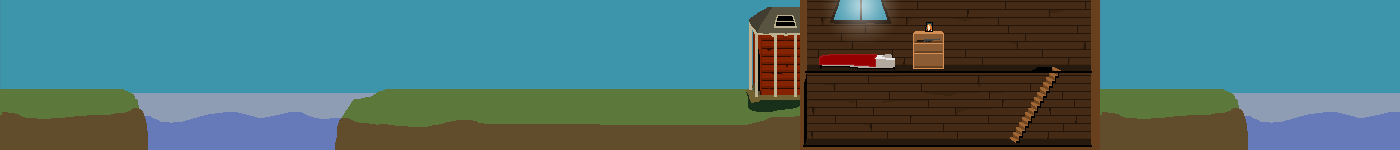
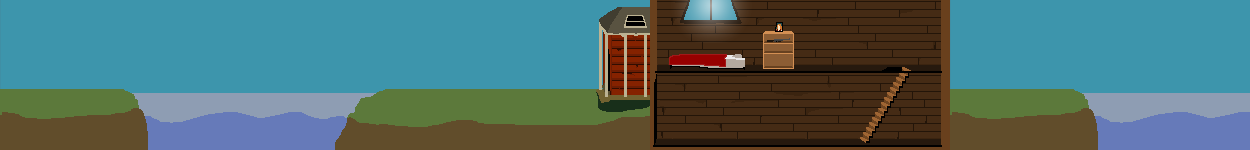
Add pickup sprites

diff --git a/index.html b/index.html
@@ -59,7 +59,7 @@
         }, false, false, null);
 
         var bg, bgNight, bgNightOverlay;
-        var kLakeStartX = 140, kLakeEndX = 360;
+        var kLakeStartX = 140, kLakeEndX = 370;
         var kBarnStartX = 768, kBarnStepStartX = 747;
         var kCamBeforeFarm = 550 - 300, kCamAfterFarm = 800 - 300, kCamBarn = 800;
         var kGroundY = 89;
@@ -103,7 +103,8 @@
             state: {
                 boat: "not_in",
                 x: 82,
-                y: 93
+                y: 93,
+                body: "idle", // dead
             },
             sprite: null,
         };
@@ -267,6 +268,7 @@
         function showTitle(msg, restart) {
             if (restart && isPressed(Phaser.KeyCode.SPACEBAR)) {
                 if (title.showing) title.group.destroy();
+                console.log("HERE");
                 title.showing = false;
                 restartGame();
                 return;
@@ -391,7 +393,7 @@
             game.load.image("wolf", "img/wolf.png");
             game.load.image("cabbage", "img/cabbage.png");
             game.load.image("boat", "img/boat.png?v2");
-            game.load.spritesheet("farmer", "img/farmer.png", 20, 44);
+            game.load.spritesheet("farmer", "img/farmer.png?v5", 30, 44);
             game.load.bitmapFont("font", "img/font.png", "img/font.fnt");
             game.load.image("barn-front", "img/barn-front.png?v2");
             game.load.image("gun", "img/gun.png");
@@ -434,6 +436,12 @@
             farmer.body.anchor.set(.5, .5);
             farmer.body.animations.add("idle", [0]);
             farmer.body.animations.add("walking", [1,2,3,4,5,6], 6);
+            farmer.body.animations.add("idle-cabbage", [7]);
+            farmer.body.animations.add("walking-cabbage", [8,9,10,11,12,13], 6);
+            farmer.body.animations.add("idle-goat", [14]);
+            farmer.body.animations.add("walking-goat", [15,16,17,18,19,20], 6);
+            farmer.body.animations.add("idle-wolf", [21]);
+            farmer.body.animations.add("walking-wolf", [22,23,24,25,26,27], 6);
             farmer.shadow = farmer.sprite.create(-8, 16, "farmer-shadow");
             farmer.sprite.add(farmer.body);
             farmer.deathBody = game.add.sprite(0, -2, "farmer-death");
@@ -724,7 +732,13 @@
             // Apply farmer state to farmer sprite.
             farmer.body.scale.set(farmer.state.dir, 1);
             farmer.deathBody.scale.set(farmer.state.dir, 1);
-            farmer.body.animations.play(farmer.state.body) // idempotent.
+            var farmerAnim = farmer.state.body;
+
+            // If the farmer is picking up an animal or gun, tack on to the current animation.
+            if (animals.has(farmer.state.pickingUp)) {
+                farmerAnim += "-" + farmer.state.pickingUp;
+            }
+            farmer.body.animations.play(farmerAnim) // idempotent.
             farmer.sprite.position.x = farmer.state.x;
             farmer.sprite.position.y = yPos(farmer);
         }
@@ -775,8 +789,11 @@
                    actor.state.boat = farmer.state.boat;
                    actor.state.x = farmer.sprite.position.x;
                    actor.state.y = 75;
+                   actor.state.dir = farmer.state.dir;
+                   actor.sprite.visible = false;
                 } else {
                    actor.state.y = 88;
+                   actor.sprite.visible = true;
                 }
             });
 

diff --git a/readme.md b/readme.md
@@ -2,6 +2,7 @@ Bugs
 ----
 - Gun pickup location
 - After farmer sleep transition, farmer moves
+- Farmer moves position after
 
 Code cleaning
 -------------
@@ -11,14 +12,19 @@ Code cleaning
 
 Artwork
 -------
-- Animations for goat/wolf
+- Reduce land between barn and lake, increase size of lake to hide boat on ending sequence
+- Picking up animations [done]
+- Animations for goat/wolf/cabbage (eating, walking, dead, idle)
 - Add z-indexes layers
 - Staircase animation
 - In bed animation
 - Add homelike items to barn, define artwork for boards
+- Water movement please!!!
+
 - Add window to house, have sky overlay [done]
-- Reduce land between barn and lake
 - Water movement/waves
+- Remove shadows during night transition
+
 
 Misc
 ----
